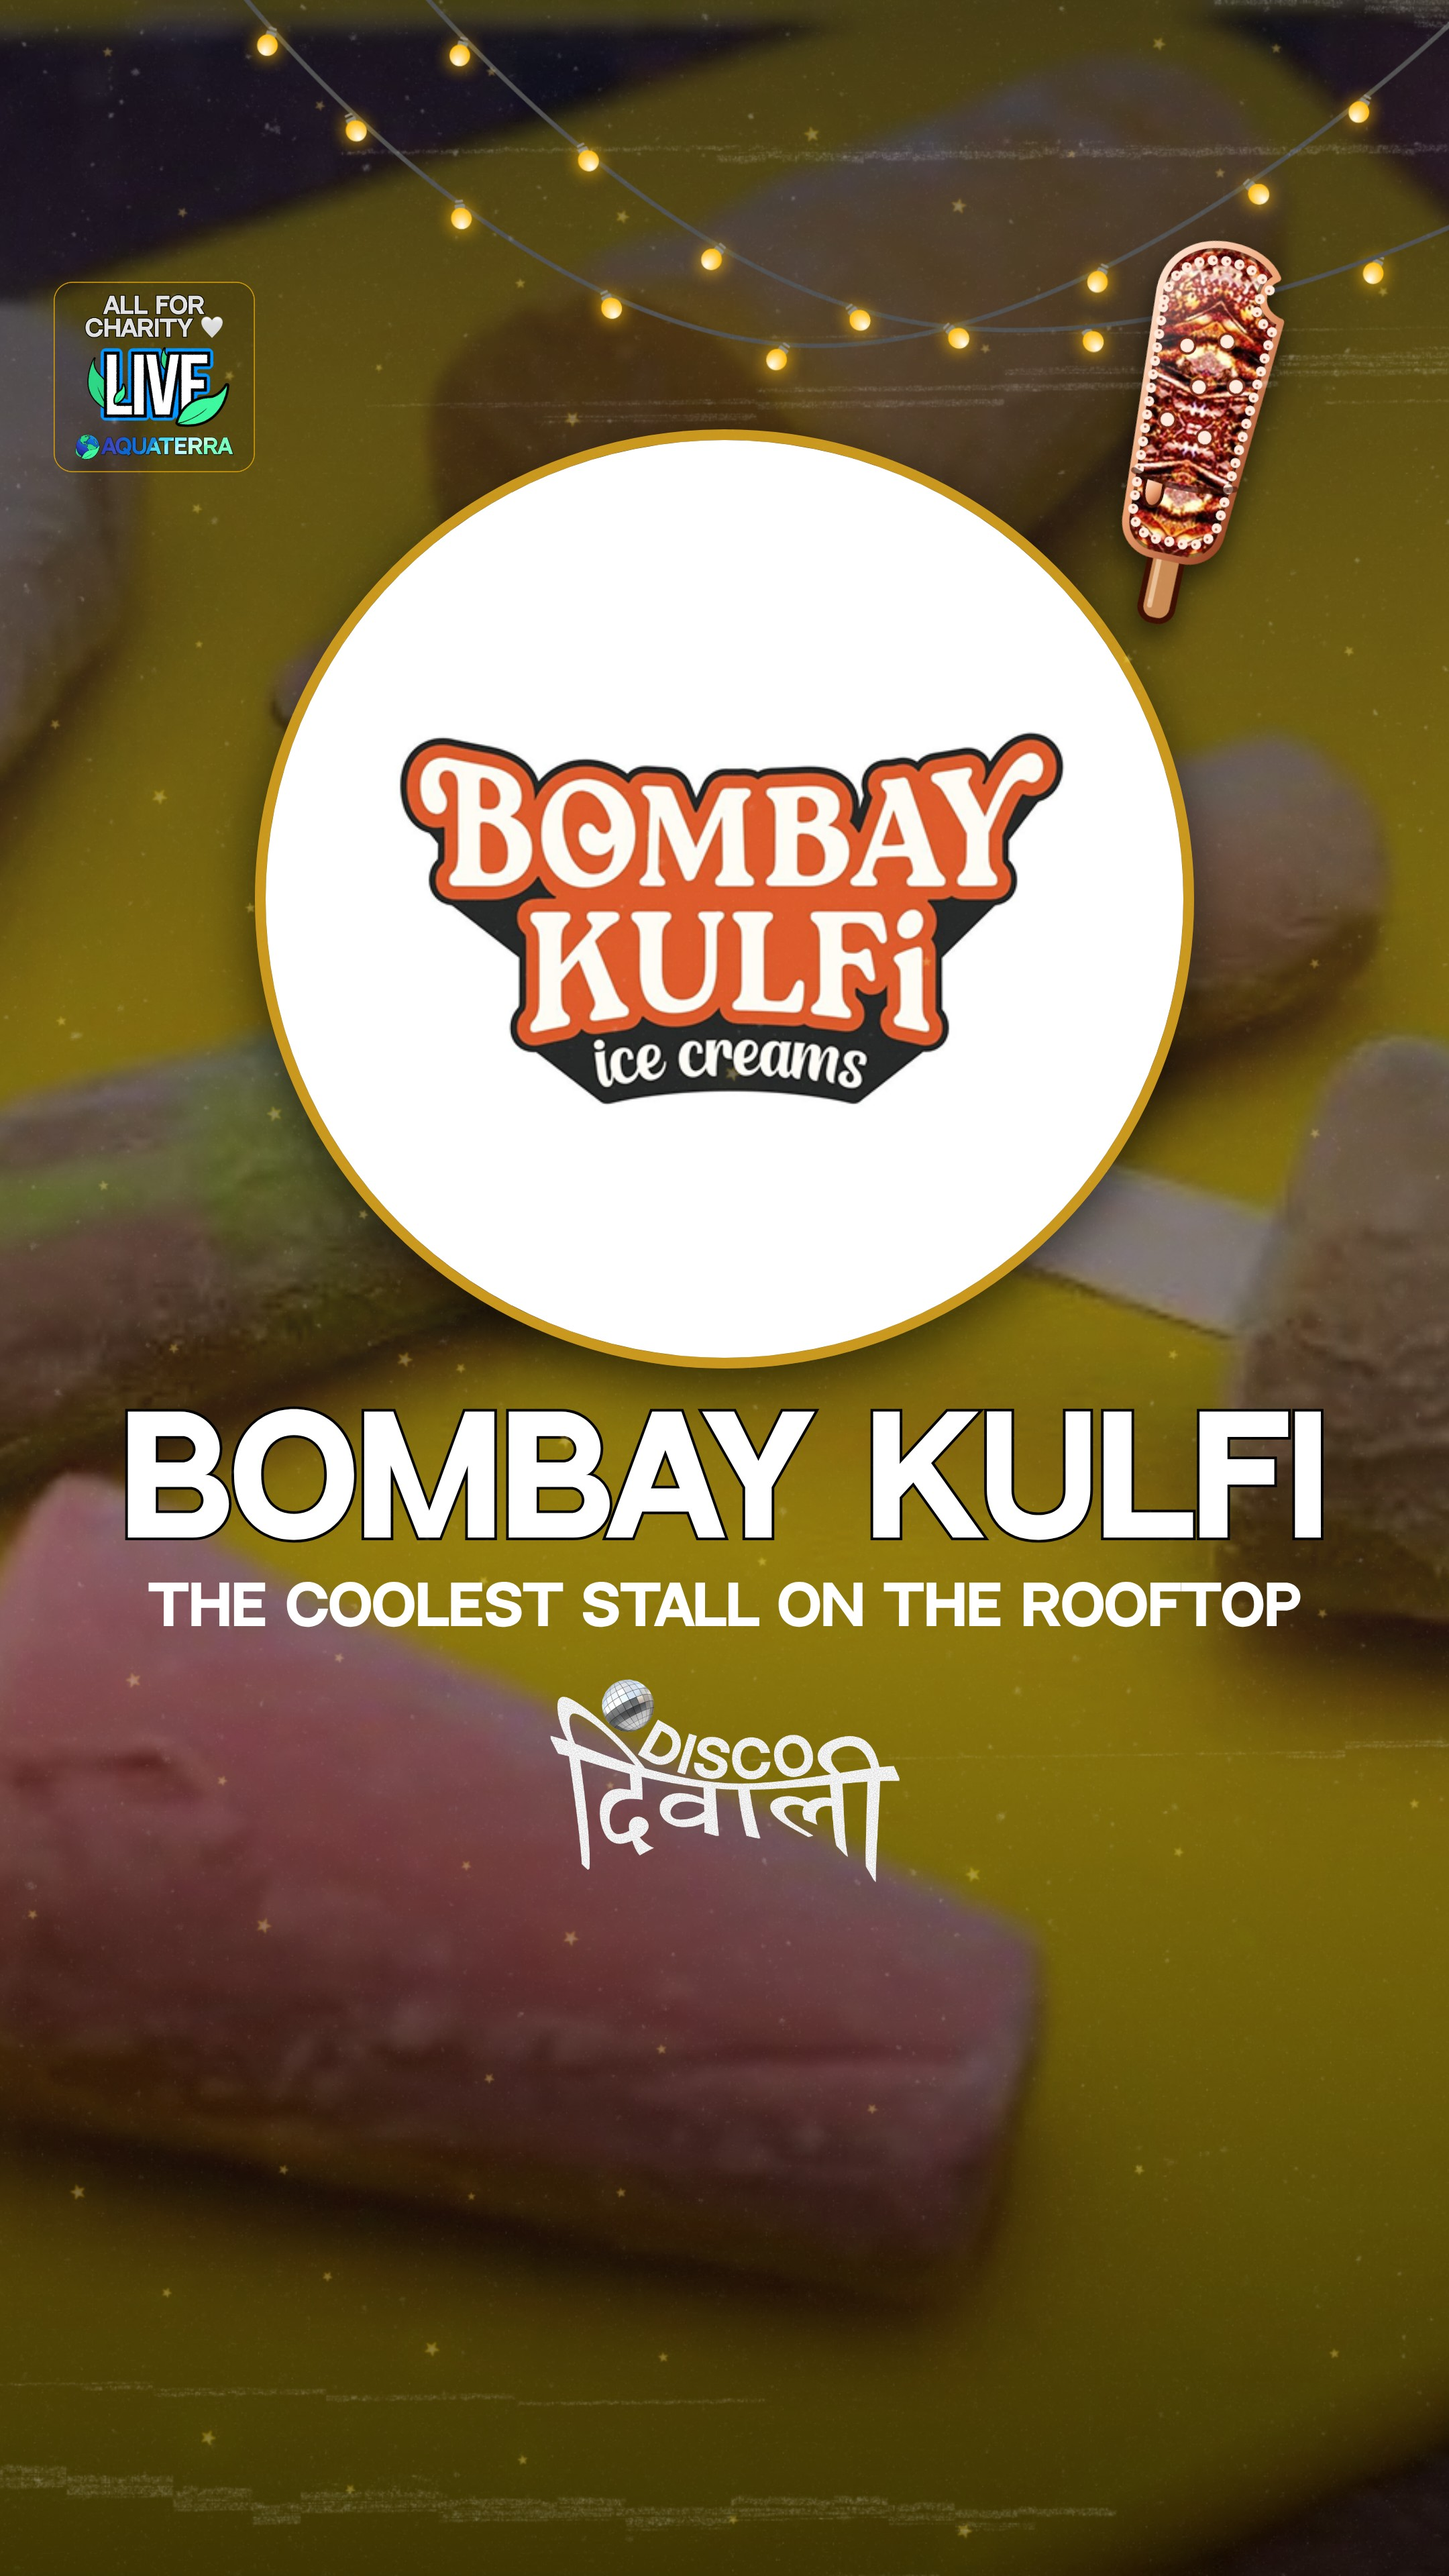
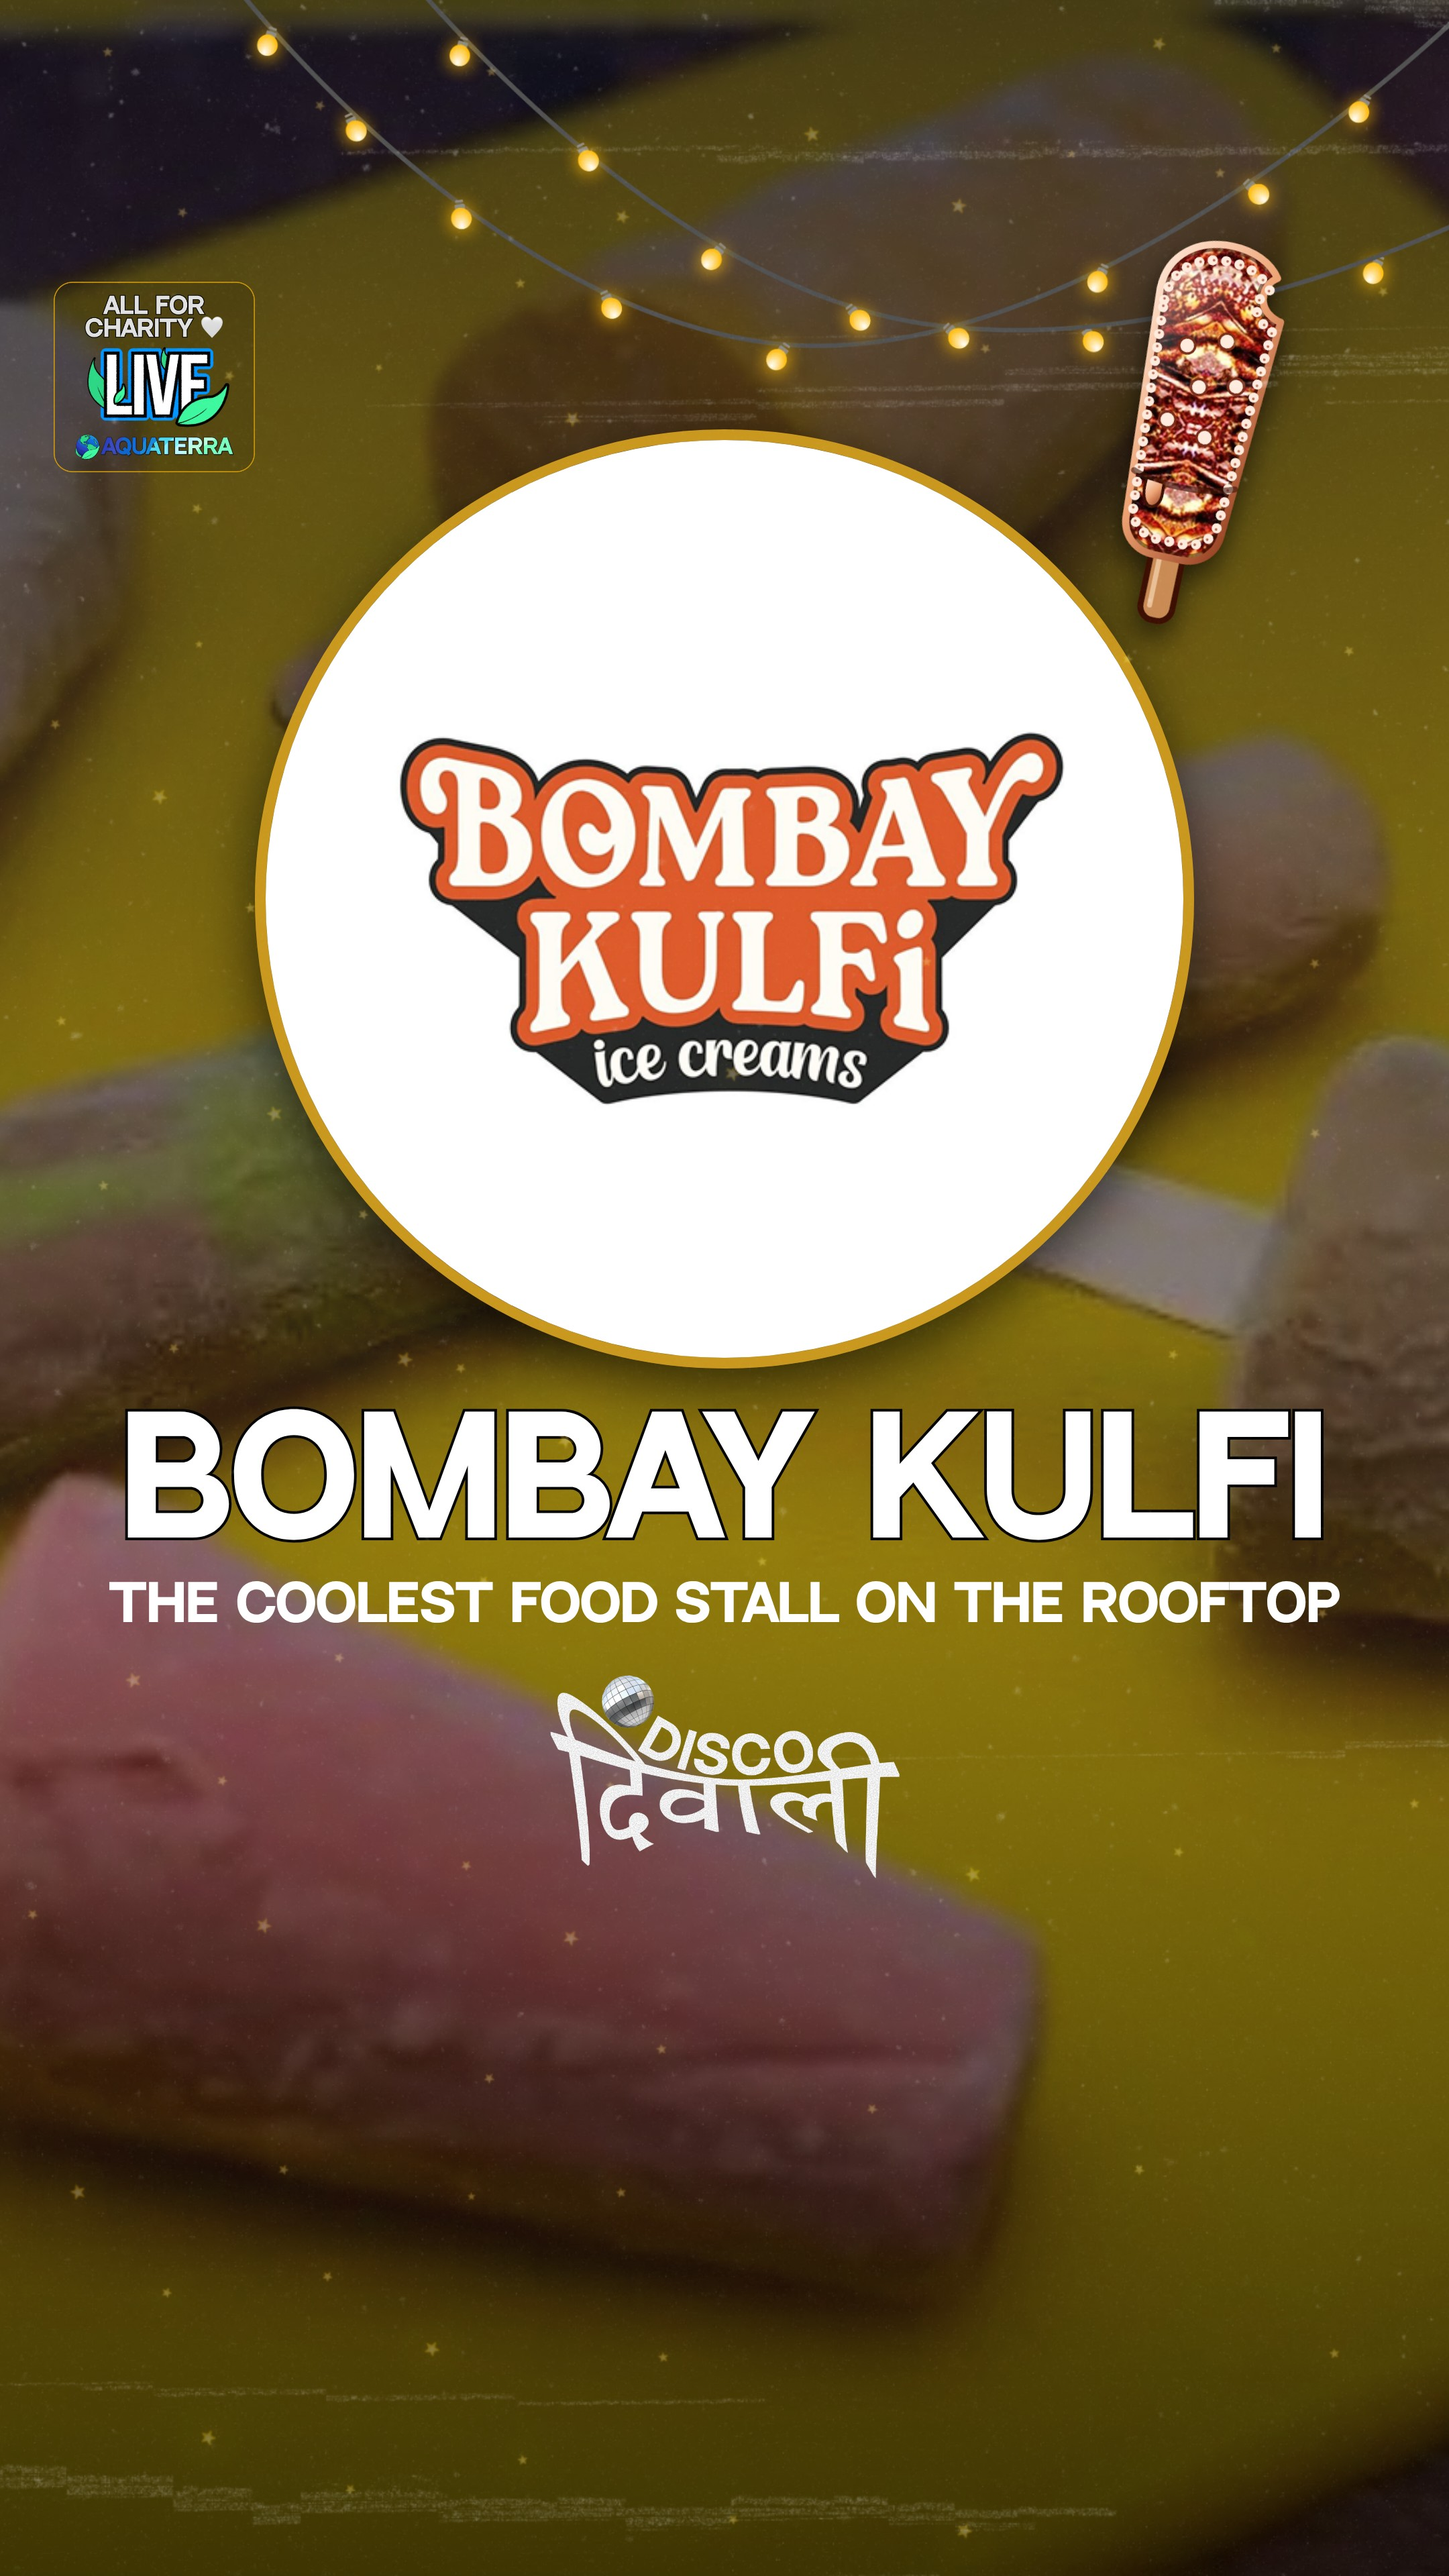
Bombay Kulfi: tagline names it a food stall
Claude-Session: https://claude.ai/code/session_01Hjb3YdETYzUX9KQBuy3LJ5

Changed region(s): [[0.062, 0.5938, 0.9306, 0.7188]]

diff --git a/scratchpad/dd_kulfi.py b/scratchpad/dd_kulfi.py
@@ -46,8 +46,8 @@ def poster(H):
                      f'text-transform:uppercase;white-space:nowrap;{STROKE if stroke else "color:#fff;"}z-index:20">{txt}</div>'); els.append((tag, 40, top, 1000, h))
     line("head", "Bombay Kulfi", hy, hs, 700, hs)
     t1 = hy + hs + 14
-    line("tag1", "The coolest stall on the rooftop", t1, 40, 700, 44, stroke=False)
-    y = t1 + 44 + (30 if story else 26)
+    line("tag1", "The coolest food stall on the rooftop", t1, 37, 700, 41, stroke=False)
+    y = t1 + 41 + (30 if story else 26)
     # footer lockup, with ball
     vw = 260 if story else 300
     t = vw / 1717; vh = round(991 * t); vx = (W - vw) // 2
